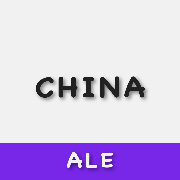
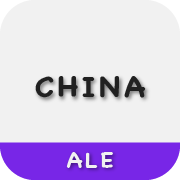
favicon大成

diff --git a/vite.config.ts b/vite.config.ts
@@ -1,7 +1,7 @@
 import { defineConfig } from 'vite'
 import react from '@vitejs/plugin-react'
 import { VitePWA } from 'vite-plugin-pwa'
-import fs from 'fs';
+import fs from 'fs'
 
 // https://vitejs.dev/config/
 export default defineConfig({
@@ -9,35 +9,67 @@ export default defineConfig({
     react(),
     VitePWA({
       registerType: 'autoUpdate',
-      includeAssets: ['favicon.ico', 'favicon-96x96.png', 'apple-touch-icon.png', 'favicon.svg'],
+      includeAssets: [
+        'favicon.ico', 
+        'apple-touch-icon.png', 
+        'ChinALE_96_any.png', 
+        'ChinALE_192_any.png', 
+        'ChinALE_512_any.png', 
+        'ChinALE_96_maskable.png', 
+        'ChinALE_192_maskable.png', 
+        'ChinALE_512_maskable.png'
+      ],
       manifest: {
+        
         name: 'ChinALE',
         short_name: 'ChinALE',
-        description: 'Unlock Chinese Metadata, Bridge AVID’s World.',
+        description: 'Unlock Chinese Metadata, Bridge AVID World.',
         theme_color: '#171717',
         background_color: '#171717',
         display: 'standalone',
-        start_url: '/',
+        id: "/?source=pwa",
+        start_url: '/?source=pwa',
+        scope: '/',
+        orientation: 'any',
+        categories: ['productivity', 'utilities'],
         icons: [
-          {
-            src: 'favicon-96x96.png',
-            sizes: '96x96',
-            type: 'image/png'
-          },
           {
             src: 'apple-touch-icon.png',
             sizes: '180x180',
+            type: 'image/png'
+          },
+          {
+            src: 'ChinALE_96_any.png',
+            sizes: '96x96',
             type: 'image/png',
             purpose: 'any'
           },
           {
-            src: 'pwa-192x192.png',
-            sizes: '180x180',
+            src: 'ChinALE_192_any.png',
+            sizes: '192x192',
+            type: 'image/png',
+            purpose: 'any'
+          },
+          {
+            src: 'ChinALE_512_any.png',
+            sizes: '512x512',
+            type: 'image/png',
+            purpose: 'any'
+          },
+          {
+            src: 'ChinALE_96_maskable.png',
+            sizes: '96x96',
             type: 'image/png',
             purpose: 'maskable'
           },
           {
-            src: 'pwa-512x512.png',
+            src: 'ChinALE_192_maskable.png',
+            sizes: '192x192',
+            type: 'image/png',
+            purpose: 'maskable'
+          },
+          {
+            src: 'ChinALE_512_maskable.png',
             sizes: '512x512',
             type: 'image/png',
             purpose: 'maskable'
@@ -45,15 +77,25 @@ export default defineConfig({
         ]
       },
       workbox: {
-        globPatterns: ['**/*.{js,css,html,ico,png,svg}'],
+        // 启用 SW 立即接管网页
+        skipWaiting: true,
+        clientsClaim: true,
+        
+        // 静态资源缓存模式 - 扩展匹配模式以包含所有静态资源
+        globPatterns: [
+          '**/*.{js,css,html,ico,png,svg,woff2,jpg,jpeg,gif,json,webp}'
+        ],
+        
+        // 运行时缓存策略
         runtimeCaching: [
           {
+            // CDN 资源缓存策略
             urlPattern: /^https:\/\/cdnjs\.cloudflare\.com\/.*/i,
             handler: 'CacheFirst',
             options: {
               cacheName: 'cdn-cache',
               expiration: {
-                maxEntries: 10,
+                maxEntries: 20,
                 maxAgeSeconds: 60 * 60 * 24 * 365 // 1 year
               },
               cacheableResponse: {
@@ -65,26 +107,50 @@ export default defineConfig({
       }
     })
   ],
+  
+  // 构建优化配置
+  build: {
+    sourcemap: true,
+    rollupOptions: {
+      output: {
+        manualChunks: {
+          vendor: ['react', 'react-dom']
+        }
+      }
+    },
+    chunkSizeWarningLimit: 1000
+  },
+  
+  // 路径别名配置
   resolve: {
     alias: {
-      // 提供 Node polyfills
-      buffer: 'buffer/',
-      stream: 'stream-browserify',
-      util: 'util/'
+      '@': '/src',
+      '@components': '/src/components',
+      '@assets': '/src/assets'
     }
   },
-  optimizeDeps: {
-    esbuildOptions: {
-      // Node.js 全局变量的 polyfill
-      define: {
-        global: 'globalThis'
-      }
-    }
-  },
+  
+  // 开发服务器配置
   server: {
+    // HTTPS 配置
     https: {
       key: fs.readFileSync('localhost-key.pem'),
       cert: fs.readFileSync('localhost.pem'),
+    },
+    
+    // 安全头配置 - 简化为静态网站所需
+    headers: {
+      'Content-Security-Policy': [
+        "default-src 'self'",
+        "script-src 'self' 'unsafe-inline' cdnjs.cloudflare.com",
+        "style-src 'self' 'unsafe-inline'",
+        "img-src 'self' data: blob:",
+        "font-src 'self'"
+      ].join('; '),
+      'X-Content-Type-Options': 'nosniff',
+      'X-Frame-Options': 'DENY',
+      'X-XSS-Protection': '1; mode=block',
+      'Referrer-Policy': 'strict-origin-when-cross-origin'
     }
   }
 })

diff --git a/index.html b/index.html
@@ -4,7 +4,7 @@
     <meta charset="UTF-8" />
     <meta name="viewport" content="width=device-width, initial-scale=1.0" />
     <title>ChinALE</title>
-    <meta name="description" content="Unlock Chinese Metadata, Bridge AVID’s World.">
+    <meta name="description" content="Unlock Chinese Metadata, Bridge AVID World.">
     
     <!-- PWA primary color -->
     <meta name="theme-color" content="#212121" media="(prefers-color-scheme: dark)">
@@ -14,10 +14,9 @@
     <link rel="apple-touch-icon" href="/apple-touch-icon.png">
     
     <!-- Icons for different platforms -->
-    <link rel="icon" type="image/png" href="/favicon-96x96.png" sizes="96x96">
+    <link rel="icon" type="image/png" href="/ChinALE_96_any.png" sizes="96x96">
     <link rel="icon" href="/favicon.ico" sizes="48x48">
     <link rel="icon" href="/favicon.svg" sizes="any" type="image/svg+xml">
-    <!-- <link rel="mask-icon" href="/favicon.svg" color="#3366FF"> -->
 
     <!-- Apple specific meta tags -->
     <meta name="apple-mobile-web-app-capable" content="yes">
